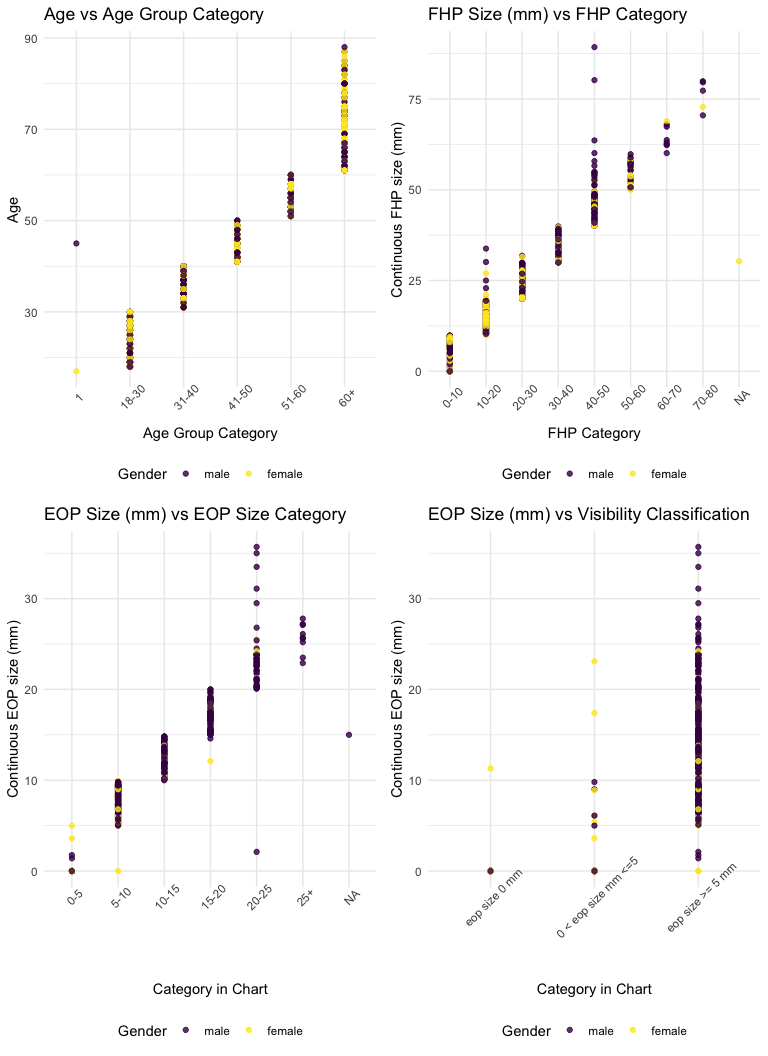
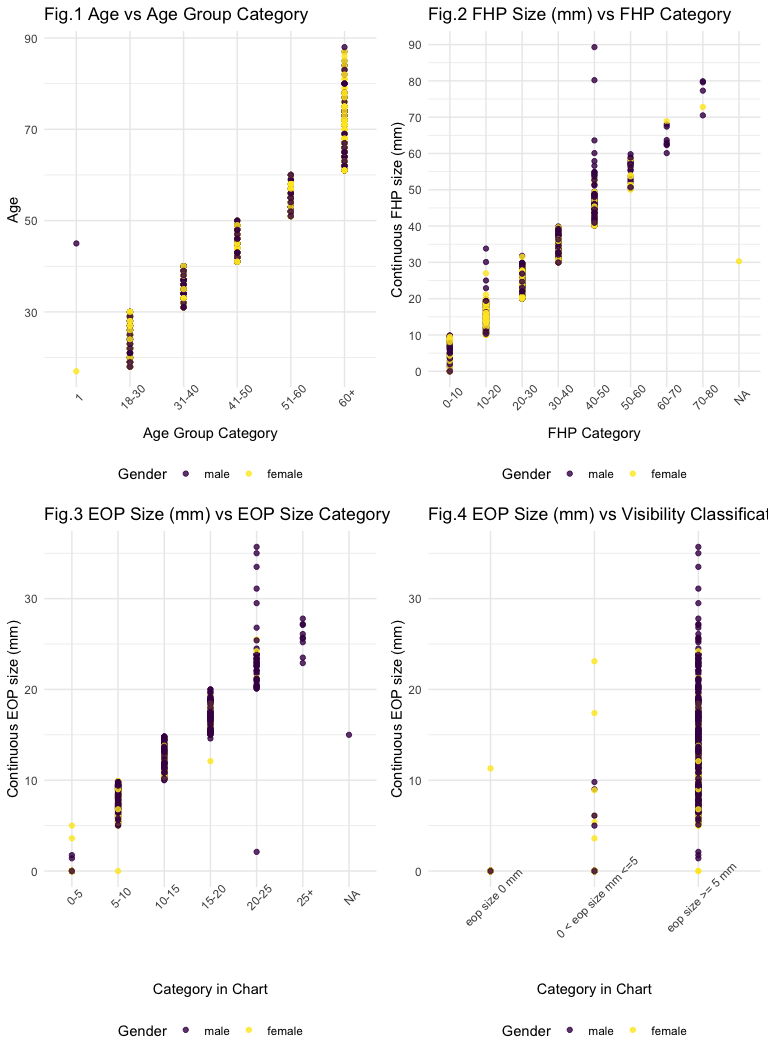
draft

diff --git a/p8105_mtp_sl4662.md b/p8105_mtp_sl4662.md
@@ -65,8 +65,10 @@ age_male =
   group_by(age_group) %>% 
   summarize(male_number = n())
 
-left_join(age_female, age_male, by = "age_group") %>% 
-  knitr::kable()
+age_table = 
+  left_join(age_female, age_male, by = "age_group") 
+
+knitr::kable(age_table)
 ```
 
 | age\_group | female\_number | male\_number |
@@ -82,32 +84,10 @@ This dataset is consist of many different variables, and some variables
 have conclusive variables following them to classify the results into
 different groups.
 
-Key variables include :
+Key variables include `age`, `sex`, `eop_size_mm`, `fhp_size_mm`.
 
 There are 9 variables and 1221 observations in this data set. There is a
 total of 1221 participants.
-
-age = mtp\_data %\>% mutate( age = case\_when( age \< 18 \~ “\<18”, age
-\> 17 & age \< 31 \~ “18-30”, age \> 30 & age \< 41 \~ “31-40”, age \>
-40 & age \< 51 \~ “41-50”, age \> 50 & age \< 61 \~ “51-60”, age \> 60
-\~ “\>60”, TRUE \~ "" )) %\>% janitor::tabyl(sex, age) %\>%
-select(“sex”, “\<18”, “18-30”,“31-40”,“41-50”,“51-60”,“\>60”)
-
-age\_cat = mtp\_data %\>% mutate( age\_cat = case\_when( age\_group ==
-“1” \~ “\<18”, age\_group == “18-30” \~ “18-30”, age\_group == “31-40”
-\~ “31-40”, age\_group == “41-50” \~ “41-50”, age\_group == “51-60” \~
-“51-60”, age\_group == “60+” \~ “\>60”, TRUE \~ "" )) %\>%
-janitor::tabyl(sex, age\_cat) %\>% select(“sex”, “\<18”,
-“18-30”,“31-40”,“41-50”,“51-60”,“\>60”)
-
-aa = bind\_rows(age\_cat, age) %\>% pivot\_longer( names\_to = female,
-values\_from = )
-
-eop = mtp\_data %\>% mutate( eop = case\_when( “eop\_size mm” \< 18 \~
-“\<18”, age \> 17 & age \< 31 \~ “18-30”, age \> 30 & age \< 41 \~
-“31-40”, age \> 40 & age \< 51 \~ “41-50”, age \> 50 & age \< 61 \~
-“51-60”, age \> 60 \~ “\>60”, TRUE \~ "" )) %\>% janitor::tabyl(sex,
-age\_cat)
 
 ``` r
 eop1 = 
@@ -116,7 +96,7 @@ mtp_data %>%
     geom_point(alpha = 0.8) + 
     labs(
     color = "Gender",
-    title = "EOP Size (mm) vs EOP Size Category",
+    title = "Fig.3 EOP Size (mm) vs EOP Size Category",
     x = "Category in Chart",
     y = "Continuous EOP size (mm)") +
   theme(axis.text.x = element_text(angle = 45))
@@ -126,7 +106,7 @@ mtp_data %>%
     geom_point(alpha = 0.8) + 
     labs(
     color = "Gender",
-    title = "EOP Size (mm) vs Visibility Classification",
+    title = "Fig.4 EOP Size (mm) vs Visibility Classification",
     x = "Category in Chart",
     y = "Continuous EOP size (mm)") +
   theme(axis.text.x = element_text(angle = 45))
@@ -135,12 +115,14 @@ fhp =
 mtp_data %>%
   ggplot(aes(x = fhp_category, y = fhp_size_mm, color = sex)) + 
     geom_point(alpha = 0.8) + 
+    scale_y_continuous(
+      breaks = c(0, 10, 20, 30, 40, 50, 60, 70, 80, 90)) +
     labs(
     color = "Gender",
-    title = "FHP Size (mm) vs FHP Category",
+    title = "Fig.2 FHP Size (mm) vs FHP Category",
     x = "FHP Category",
     y = "Continuous FHP size (mm)") +
-  theme(axis.text.x = element_text(angle = 45))
+  theme(axis.text.x = element_text(angle = 45)) 
 
 age = 
 mtp_data %>%
@@ -148,7 +130,7 @@ mtp_data %>%
     geom_point(alpha = 0.8) + 
     labs(
     color = "Gender",
-    title = "Age vs Age Group Category",
+    title = "Fig.1 Age vs Age Group Category",
     x = "Age Group Category",
     y = "Age") +
   theme(axis.text.x = element_text(angle = 45))
@@ -157,6 +139,21 @@ mtp_data %>%
 ```
 
 <img src="p8105_mtp_sl4662_files/figure-gfm/unnamed-chunk-2-1.png" width="100%" />
+
+In Fig.1, there are two observations that’re categorized in the wrong
+age group. Since we have over one thousand observation in this data set,
+the small error in age group would not make a huge impact on the overall
+statistics.
+
+In Fig.2 and Fig. 3, multiple observations, mostly males, are placed in
+the wrong group, which may have an impact on the overall statistics
+involving EOP size (10-25mm) and FHP size (40-50mm) about males.
+
+In Fig.4, there is major mistakes in EOP size 0 mm and EOP size 0-5 mm
+group, because most observations in these two groups are misplaced, and
+making conlusion based on these two groups will give wrong results. In
+addition, a samll portion of EOP Size \>= 5mm does not belone in that
+group, which shouldn’t have a big impact.
 
 ``` r
 age_based = 
@@ -215,7 +212,7 @@ ggplot(data = mtp_data, aes(x = age, y = fhp_size_mm, color = sex)) +
   geom_smooth() +
   labs(
     color = "Gender",
-    title = "FHP size (mm) vs Age",
+    title = "Fig. 5 FHP size (mm) vs Age",
     x = "Age",
     y = "FHP size (mm)")
 
@@ -241,7 +238,7 @@ ggplot(data = gender_enlarge, aes(x = age_group, y = enlarge_rate, color = sex))
   geom_line(aes(group = sex), alpha = .5) + 
   labs(
     color = "Gender",
-    title = "rate of enlarged EOP vs Age Groups",
+    title = "Fig.6 Rate of enlarged EOP vs Age Groups",
     x = "Age Groups",
     y = "Rate of Enlarged EOP")
 
@@ -252,6 +249,16 @@ ggplot(data = gender_enlarge, aes(x = age_group, y = enlarge_rate, color = sex))
 
 <img src="p8105_mtp_sl4662_files/figure-gfm/unnamed-chunk-4-1.png" width="100%" />
 
+From Fig. 5, we can tell that average FHP size of male is always larger
+than female’s. As age goes up, FHP size grows exponentially, so there is
+an exponential relationship between age and FHP size. In addition, the
+difference of average and standard deviation both increase as age
+increase.
+
+From Fig. 6, we know that rate of enlarged EOP among male is always
+around 30% higher than female. Generally, rate is highest among 18-30
+age group, and lowest among 41-50 age group.
+
 ``` r
 female = 
   mtp_data %>% 
@@ -261,7 +268,16 @@ female_plot =
   ggplot(data = female, aes(x = eop_size_mm, y = fhp_size_mm, color = age_group)) + 
   geom_point(alpha = .5) +
   geom_smooth() +
-  facet_grid(. ~ age_group)
+  facet_grid(. ~ age_group) + 
+  theme(legend.position = "none") +
+  labs(
+    color = "Age Group",
+    title = "Fig. 7 Female FHP vs EOP size (mm)",
+    x = "EOP Size (mm)",
+    y = "FHP Size (mm)") +
+  scale_y_continuous(
+      breaks = c(0, 25, 50, 75))
+
 
 male = 
   mtp_data %>% 
@@ -271,7 +287,14 @@ male_plot =
   ggplot(data = male, aes(x = eop_size_mm, y = fhp_size_mm, color = age_group)) + 
   geom_point(alpha = .5) +
   geom_smooth() +
-  facet_grid(. ~ age_group)
+  facet_grid(. ~ age_group) + 
+  labs(
+    color = "Age Group",
+    title = "Male FHP vs EOP size (mm)",
+    x = "EOP Size (mm)",
+    y = "FHP Size (mm)") +
+  scale_y_continuous(
+      breaks = c(0, 25, 50, 75))
 
 female_plot / male_plot
 ```
@@ -280,3 +303,98 @@ female_plot / male_plot
     ## `geom_smooth()` using method = 'loess' and formula 'y ~ x'
 
 <img src="p8105_mtp_sl4662_files/figure-gfm/unnamed-chunk-5-1.png" width="100%" />
+
+From fig. 7, we see trends about how FHP size, age, and sex affect EOP
+size.
+
+In age group 18-30 males and 60+ , the trend is going upwords, showing a
+positive correlation between the FHP size and EOP size.
+
+In age group 18-30 females, 31-40, 41-50 males and 51-60, the trend is
+slightly going downwords, which shows that there is negative correlation
+between FHP and EOP size.
+
+Overall, male group showed a larger trend (stronger correlation) between
+FHP size and EOP size.
+
+# Problem 3
+
+``` r
+age_table = 
+  age_table %>% 
+  mutate(total = female_number + male_number)
+knitr::kable(age_table)
+```
+
+| age\_group | female\_number | male\_number | total |
+| :--------- | -------------: | -----------: | ----: |
+| 1          |              1 |            1 |     2 |
+| 18-30      |            151 |          152 |   303 |
+| 31-40      |            102 |          102 |   204 |
+| 41-50      |            106 |          101 |   207 |
+| 51-60      |             99 |          101 |   200 |
+| 60+        |            155 |          150 |   305 |
+
+There are two participants misplaced in age group 1. One is below 18,
+and the other one is 47. So we discard the one with age 17, and add one
+to group 41-50.
+
+From the data set given, numbers of participants in each age group
+was:18–30 n=303, 31–40 n=204, 41–50 n=208, 51–60 n=200, \>60 n=305. Only
+age group 51-60 has consistent number with the author’s stated sample
+size. Other groups have 3 to 8 more people compare to author’s number.
+
+``` r
+mtp_data %>% 
+drop_na(fhp_size_mm) %>% 
+group_by(sex) %>% 
+summarise(mean = mean(fhp_size_mm), sd = sd(fhp_size_mm))
+```
+
+    ## # A tibble: 2 x 3
+    ##   sex     mean    sd
+    ##   <fct>  <dbl> <dbl>
+    ## 1 male    28.5  14.7
+    ## 2 female  23.7  10.6
+
+When not replacing the missing value with 0, the mean and standard
+deviation FHP in the male cases examined is 28.5 ± 14.7, , while that
+for the female cases was 23.6 ± 10.6 mm, whcih is consistent with
+author’s calculation if we round the numbers.
+
+``` r
+eeop = 
+  mtp_data %>%
+  filter(eop_size_mm > "10") %>% 
+  nrow()
+
+eeop / (nrow(mtp_data) - 1) * 100
+```
+
+    ## [1] 57.29508
+
+EEOP is the ones with EOP exceeded 10mm in size. I used `eop_size_mm` to
+calculate prevalence of EEOP to be 57.295082% of the study population.
+This is very differnt from author’s data.
+
+``` r
+fhp_percent = 
+mtp_data %>%
+  filter(age > "60" & fhp_size_mm > "40") %>% 
+  nrow()
+
+over_six = 
+  mtp_data %>%
+  filter(age > "60") %>% 
+  nrow()
+
+(fhp_percent / over_six) * 100
+```
+
+    ## [1] 36.72131
+
+From the data set given, FHP \>40 mm observed frequently in the over 60s
+cases is 36.7213115%, while author got 34.5%. They are consistent. Also,
+according to Fig. 5, FHP size goes up as age increases.
+
+# Problem 4
